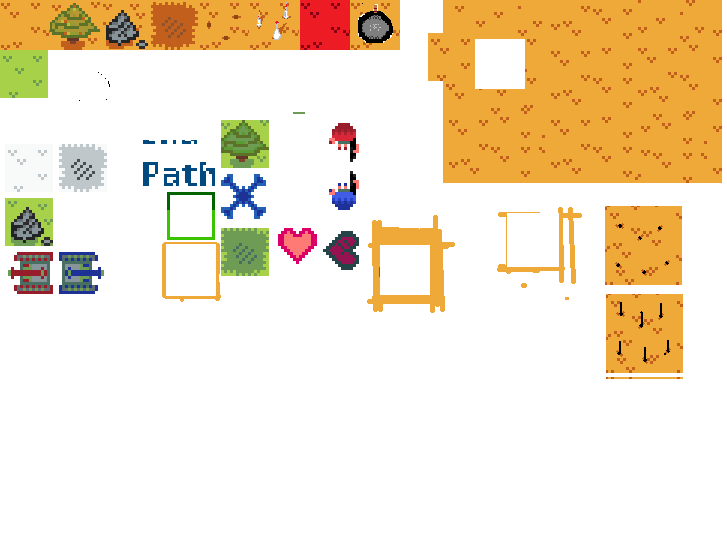
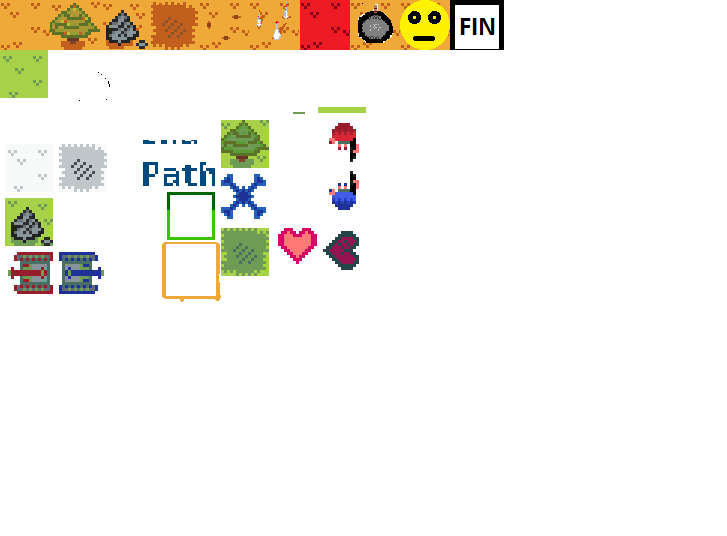
add finish tile

diff --git a/src/levelEditor.py b/src/levelEditor.py
@@ -23,8 +23,9 @@ class TiledEditor():
              '1' : [tile.Tile, True, True, graphics.TREE_SPRITE],
              '2' : [tile.Tile, True, False, graphics.ROCK_SPRITE],
              '3' : [tile.Tile, True, True, graphics.GOAL_SPRITE],
-             '4' : [tile.Spike, False, False, graphics.SPIKEDOWN_SPRITE],
-             '5' : [tile.Spike, False, False, graphics.SPIKEUP_SPRITE]
+             '4' : [tile.Spike, False, False, 0, graphics.SPIKEDOWN_SPRITE],
+             '5' : [tile.Spike, False, False, 1, graphics.SPIKEUP_SPRITE],
+             '9' : [tile.FinishTile, False, False, graphics.FINISHED_SPRITE]
            }
     
     def __init__(self, map_csv):
@@ -65,16 +66,29 @@ class TiledEditor():
             for x, cell in enumerate(row):
                 for tile_icon, attributes in TiledEditor.tiles.items():
                     if cell == tile_icon:
-                        arguments = TiledEditor.tiles[cell][1:]
-                        print(arguments)
-                        obj = TiledEditor.tiles[cell][0](x * 50,
-                                        y * 50,
-                                        50,
-                                        50,
-                                        TiledEditor.tiles[cell][1],
-                                        TiledEditor.tiles[cell][2],
-                                        TiledEditor.tiles[cell][3])
+                        if TiledEditor.tiles[cell][0] == tile.Spike:
+                            obj = TiledEditor.tiles[cell][0](x * 50,
+                                            y * 50,
+                                            50,
+                                            50,
+                                            TiledEditor.tiles[cell][1],
+                                            TiledEditor.tiles[cell][2],
+                                            TiledEditor.tiles[cell][3],
+                                            TiledEditor.tiles[cell][4])
+                        elif TiledEditor.tiles[cell][0] == tile.FinishTile:
+                            obj = TiledEditor.tiles[cell][0](x * 50,
+                                            y * 50,
+                                            50,
+                                            50,
+                                            TiledEditor.tiles[cell][1],
+                                            TiledEditor.tiles[cell][2],
+                                            TiledEditor.tiles[cell][3])
+                        else:
+                            obj = TiledEditor.tiles[cell][0](x * 50,
+                                            y * 50,
+                                            50,
+                                            50,
+                                            TiledEditor.tiles[cell][1],
+                                            TiledEditor.tiles[cell][2],
+                                            TiledEditor.tiles[cell][3])
                         self.level_data.add(obj)
-        
-t = TiledEditor('../levels/level1.csv')
-

diff --git a/src/environment.py b/src/environment.py
@@ -41,7 +41,7 @@ class LevelBase(SceneBase):
         self.next_level = next_level
         self.file = file
         self.level = levelEditor.TiledEditor(file)
-        self.player = actor.Actor(50,50,50,50, self.level, graphics.TREE_SPRITE)
+        self.player = actor.Actor(50,50,50,50, self.level, graphics.ACTOR_SPRITE)
         self.level_tiles = self.level.level_data
         self.sprites = pygame.sprite.LayeredUpdates()
         self.sprites.add(self.level_tiles, self.player)
@@ -61,11 +61,12 @@ class LevelBase(SceneBase):
                         
                     else:
                         self.player.update(v)
-                        for sprite in self.sprites:
-                            if isinstance(sprite,tile.Spike):
-                                sprite.change_state()
                         for bomb in self.player.bombs:
                             bomb.bomb_collisions(self.player.bombs)
+                        if v != 'space': 
+                            for sprite in self.sprites:
+                                if isinstance(sprite,tile.Spike):
+                                    sprite.change_state()
         
     def update(self):
         self.sprites.add(self.player.bombs)

diff --git a/src/tile.py b/src/tile.py
@@ -12,12 +12,16 @@ class Tile(entity.Entity):
         self.solid = solid 
         self.destructable = destructable 
 
+class FinishTile(Tile):
+    def __init__(self, x, y, width, height,solid, destructable, image=None):
+        Tile.__init__(self, x, y, width, height, solid, destructable, image)
+
     
 """Extends Tile. If an actor collides with this class whilst it's up, the player dies"""
 class Spike(Tile):
-    def __init__(self, x, y, width, height, solid, destructable, image):
+    def __init__(self, x, y, width, height, solid, destructable, state, image):
         Tile.__init__(self, x, y, width, height, solid, destructable, image)
-        self.state = 0 
+        self.state = state 
     
     def change_state(self):
         """Changes our state from 0(friendly) to 1(deadly) and vice versa.

diff --git a/src/actor.py b/src/actor.py
@@ -42,11 +42,10 @@ class Actor(entity.Entity):
     def finished_level(self):
         """Returns True if the user has finished level. i.e. if they have
            destroyed the block and gotten out of the boundaries of the screen"""
-        if self.rect.x >= graphics.WIDTH or \
-           self.rect.x <= 0 or \
-           self.rect.y > graphics.HEIGHT or \
-           self.rect.y <= 0:
-           return True
+        for sprite in self.level.level_data:
+            if isinstance(sprite, tile.FinishTile):
+                if pygame.sprite.collide_rect(self, sprite):
+                    return True
     
     def undo_action(self):
         if self.move_stack:

diff --git a/src/bomb.py b/src/bomb.py
@@ -1,4 +1,5 @@
 import pygame
+import tile
 import graphics
 import entity
 
@@ -65,5 +66,11 @@ class Bomb(entity.Entity):
                     if pygame.sprite.collide_rect(self, particle):
                         self.lifespan = bomb.lifespan #remember to detonate both bombs at the same time!`
                         self.explode()
+        for sprite in self.level.level_data:
+            if isinstance(sprite, tile.Spike):
+                if not sprite.state:
+                    if pygame.sprite.collide_rect(self,sprite):
+                        self.explode()
+                    
 
                      

diff --git a/src/graphics.py b/src/graphics.py
@@ -16,3 +16,5 @@ GOAL_SPRITE      = spritesheet.subsurface(150,0,50,50)
 SPIKEDOWN_SPRITE = spritesheet.subsurface(200,0,50,50)
 SPIKEUP_SPRITE   = spritesheet.subsurface(250,0,50,50)
 BOMB_SPRITE      = spritesheet.subsurface(350,0,50,50)
+ACTOR_SPRITE     = spritesheet.subsurface(400,0,50,50)
+FINISHED_SPRITE  = spritesheet.subsurface(450,0,50,50)

diff --git a/docs/MrFigs.md b/docs/MrFigs.md
@@ -10,7 +10,6 @@
 - Make the modules properly importable rather than having to copy and paste them into things
 - Bomberman's starting position should be on the text file
 - Create a backdrop for the game so that it's not just a horrible white background on smaller levels
-- Pressing 'r' should restart the level
 - Need a main menu at the start
 - Need a menu to display when you press 'esc'
 
@@ -29,6 +28,12 @@
 
 Spikes are an idea whereby every other move, the spikes will 'spike' up. If you are on the spike when it spikes up, you die and get reset to your original position.
 If the spike is in the 'down' position, then you're safe :)
+
+There are 3 options of how bombs can be implemented. 
+
+1. Bombs can be planted on the spike as long as the spike is down. When the spike comes up, it will detonate the bomb.
+2. Bombs cannot be planted on spikes.
+3. Bombs can be planted on spikes regardless of position.
 
 ##Useful Links
 [Bomberman mechanics](http://www.gamedev.net/page/resources/_/technical/game-programming/case-study-bomberman-mechanics-in-an-entity-component-system-r3159)
